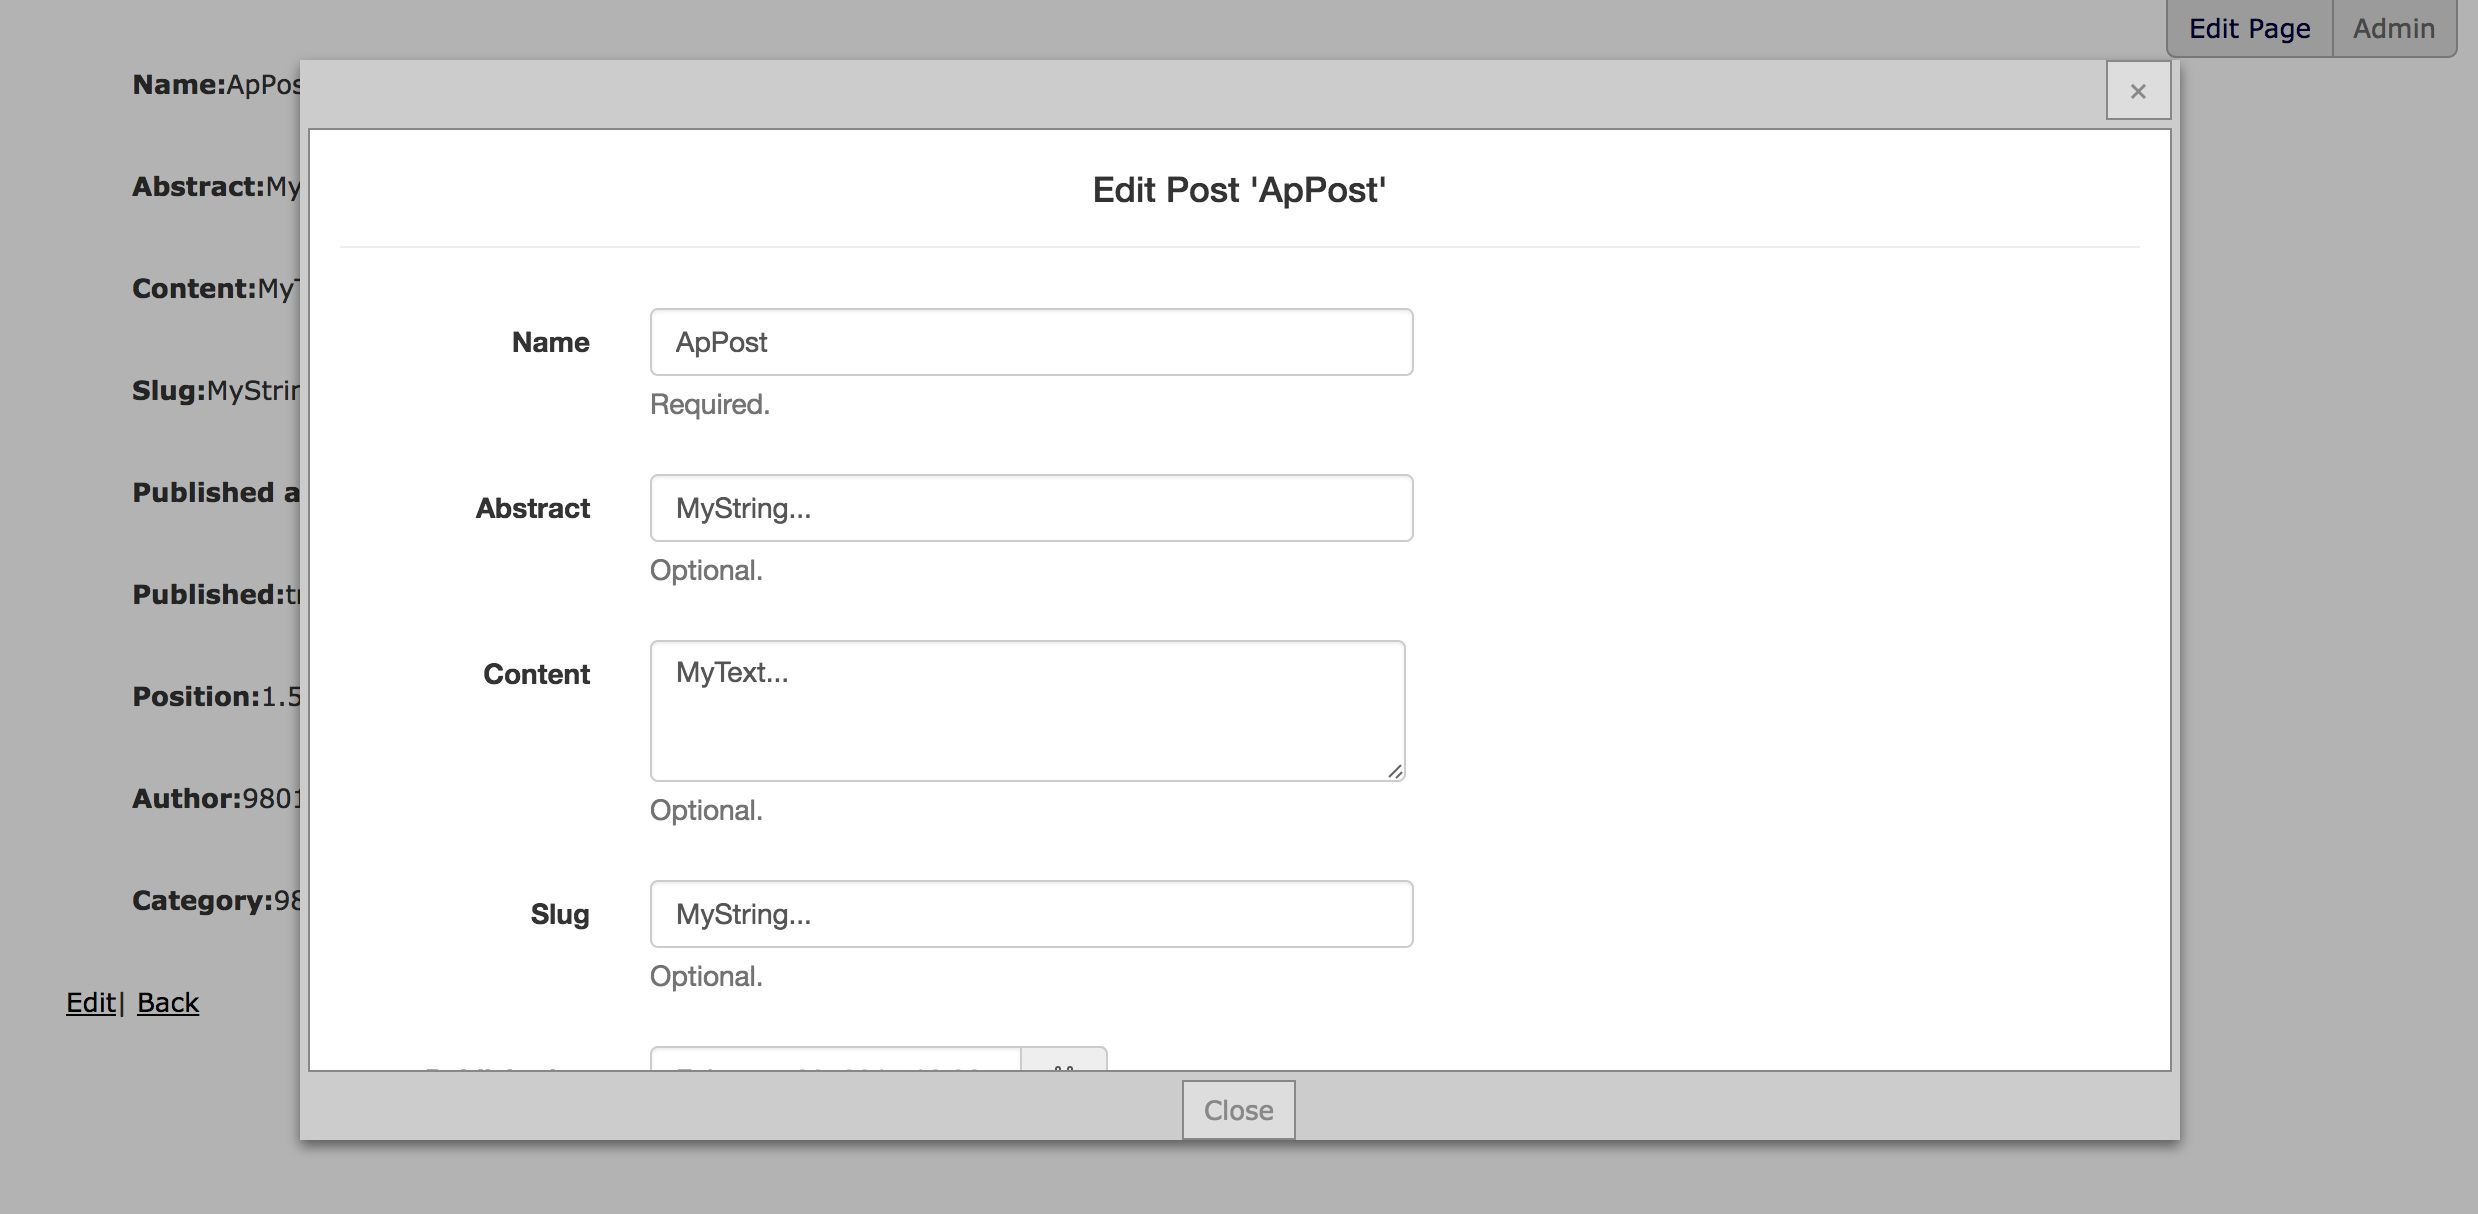
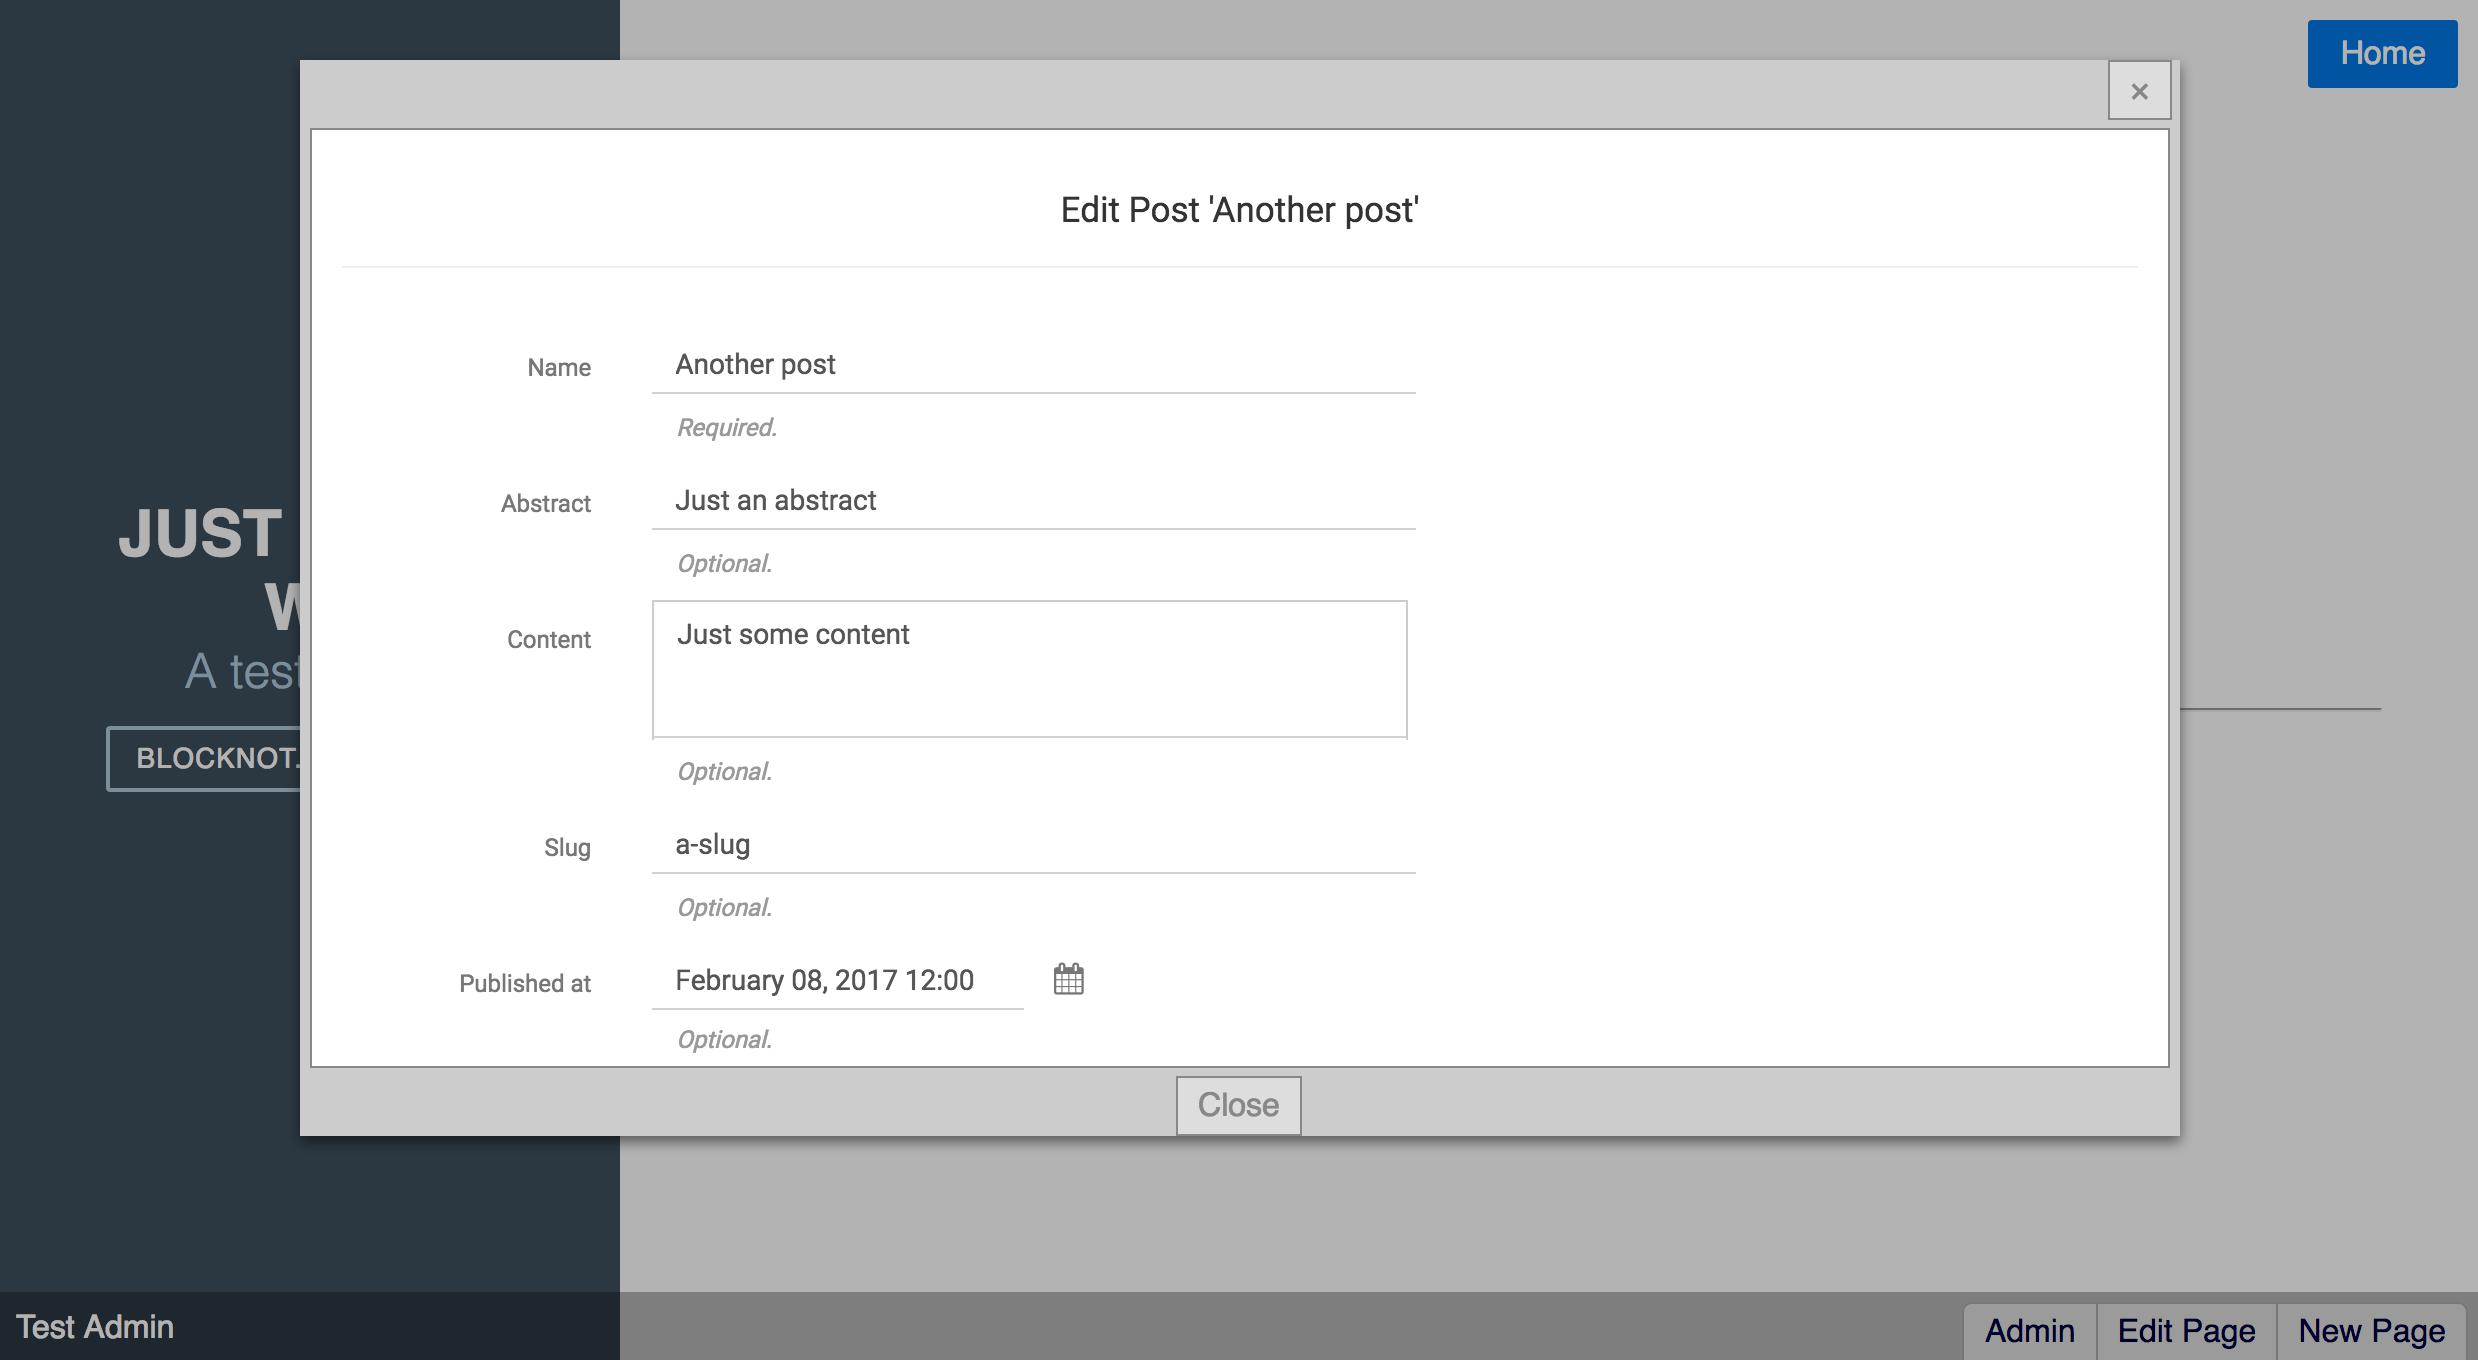
v0.1.6 :tada:

diff --git a/lib/rails_admin_live_edit/version.rb b/lib/rails_admin_live_edit/version.rb
@@ -1,3 +1,3 @@
 module RailsAdminLiveEdit
-  VERSION = '0.1.4'
+  VERSION = '0.1.6'
 end

diff --git a/README.md b/README.md
@@ -2,7 +2,9 @@
 
 A [rails_admin](https://github.com/sferik/rails_admin) plugin to edit site contents from the frontend.
 
-If the user is logged in in rails_admin and is viewing an editable page an edit button is shown on the top right which allow to open a modal window to edit the page content.
+If the user is logged in rails_admin a fixed bar on bottom is shown. It allows to edit the current record (if in a *show* page) or to create a new one (if in an *index* page).
+
+Demo: [heroku app](http://rails-admin-material.herokuapp.com/posts/)
 
 ## Installation
 
@@ -10,9 +12,11 @@ If the user is logged in in rails_admin and is viewing an editable page an edit 
 
 - Add to application layout (in body) (erb example): `<%= render 'live_edit/ra_live_editor' %>`
 
-- Add to *app/assets/javascripts/application.js*: `//= require rmodal.js/dist/rmodal`
-
 - Edit or create *app/assets/javascripts/rails_admin/custom/ui.js* and add: `//= require rails_admin/plugins/live_edit/ui.js`
+
+## Notes
+
+- This plugin use `current_user` method to check if the user is logged in; to bypass this check it is possible to define a `current_user` helper method.
 
 ## Preview
 
